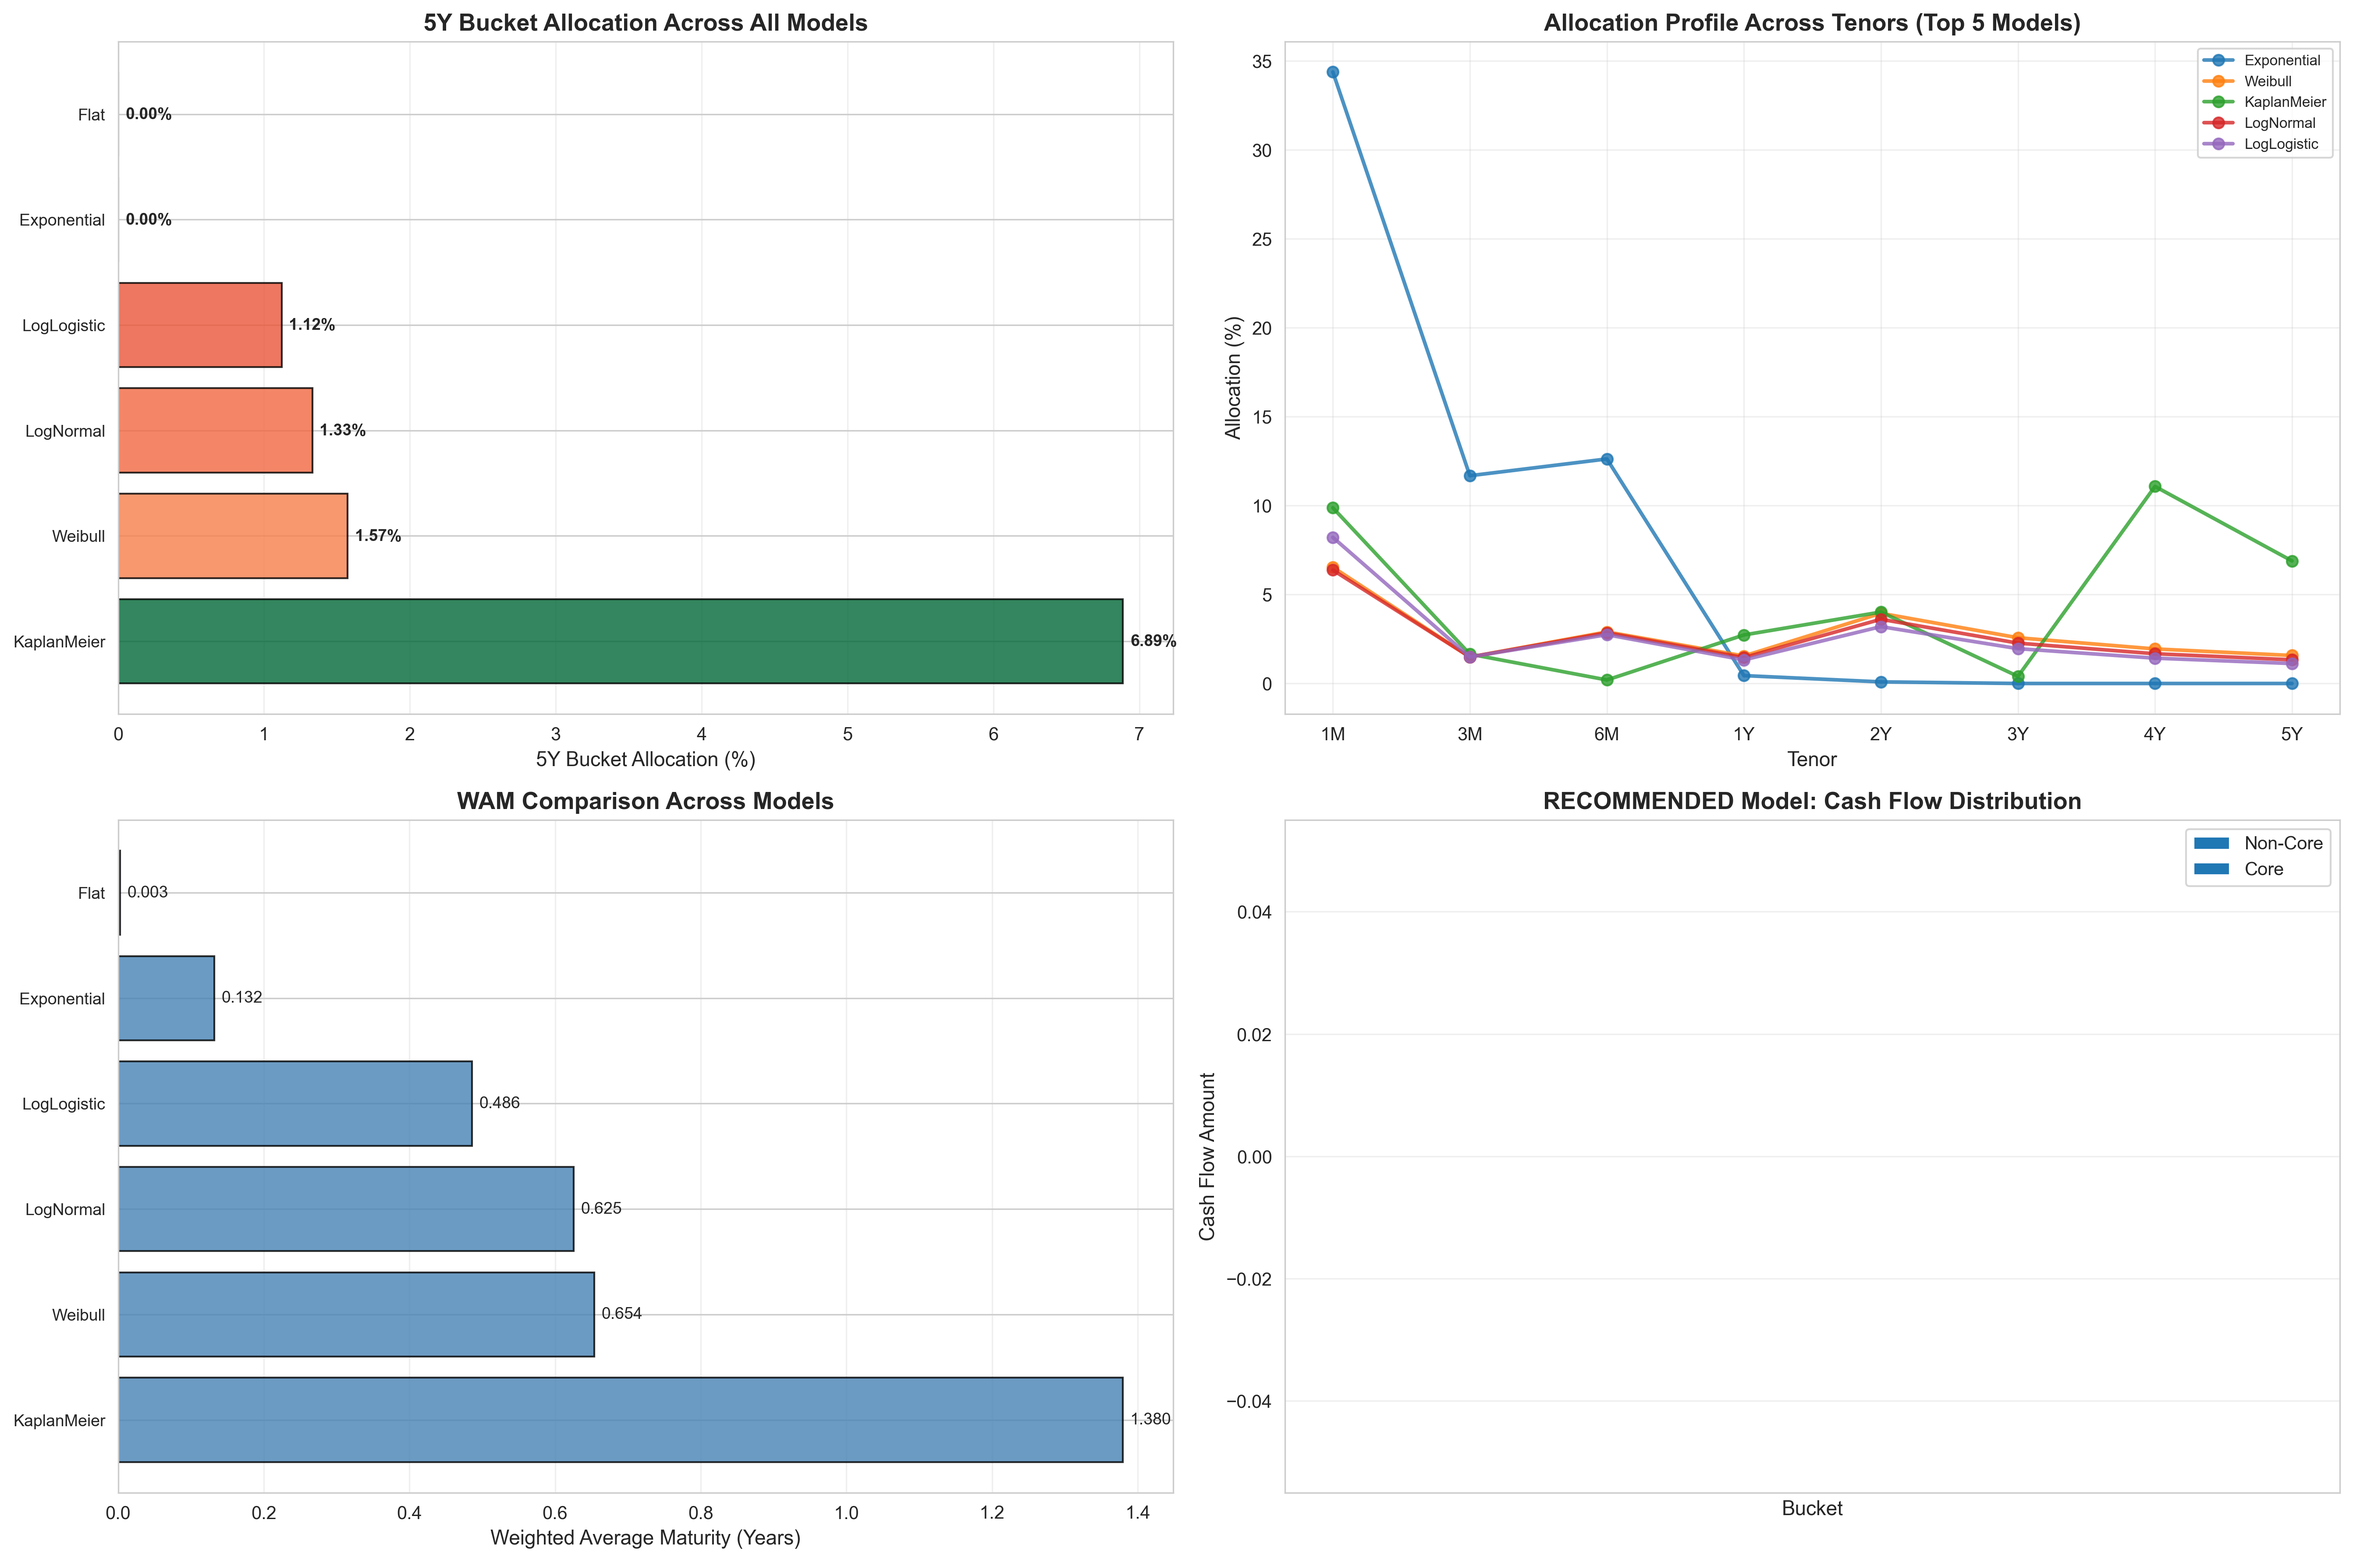
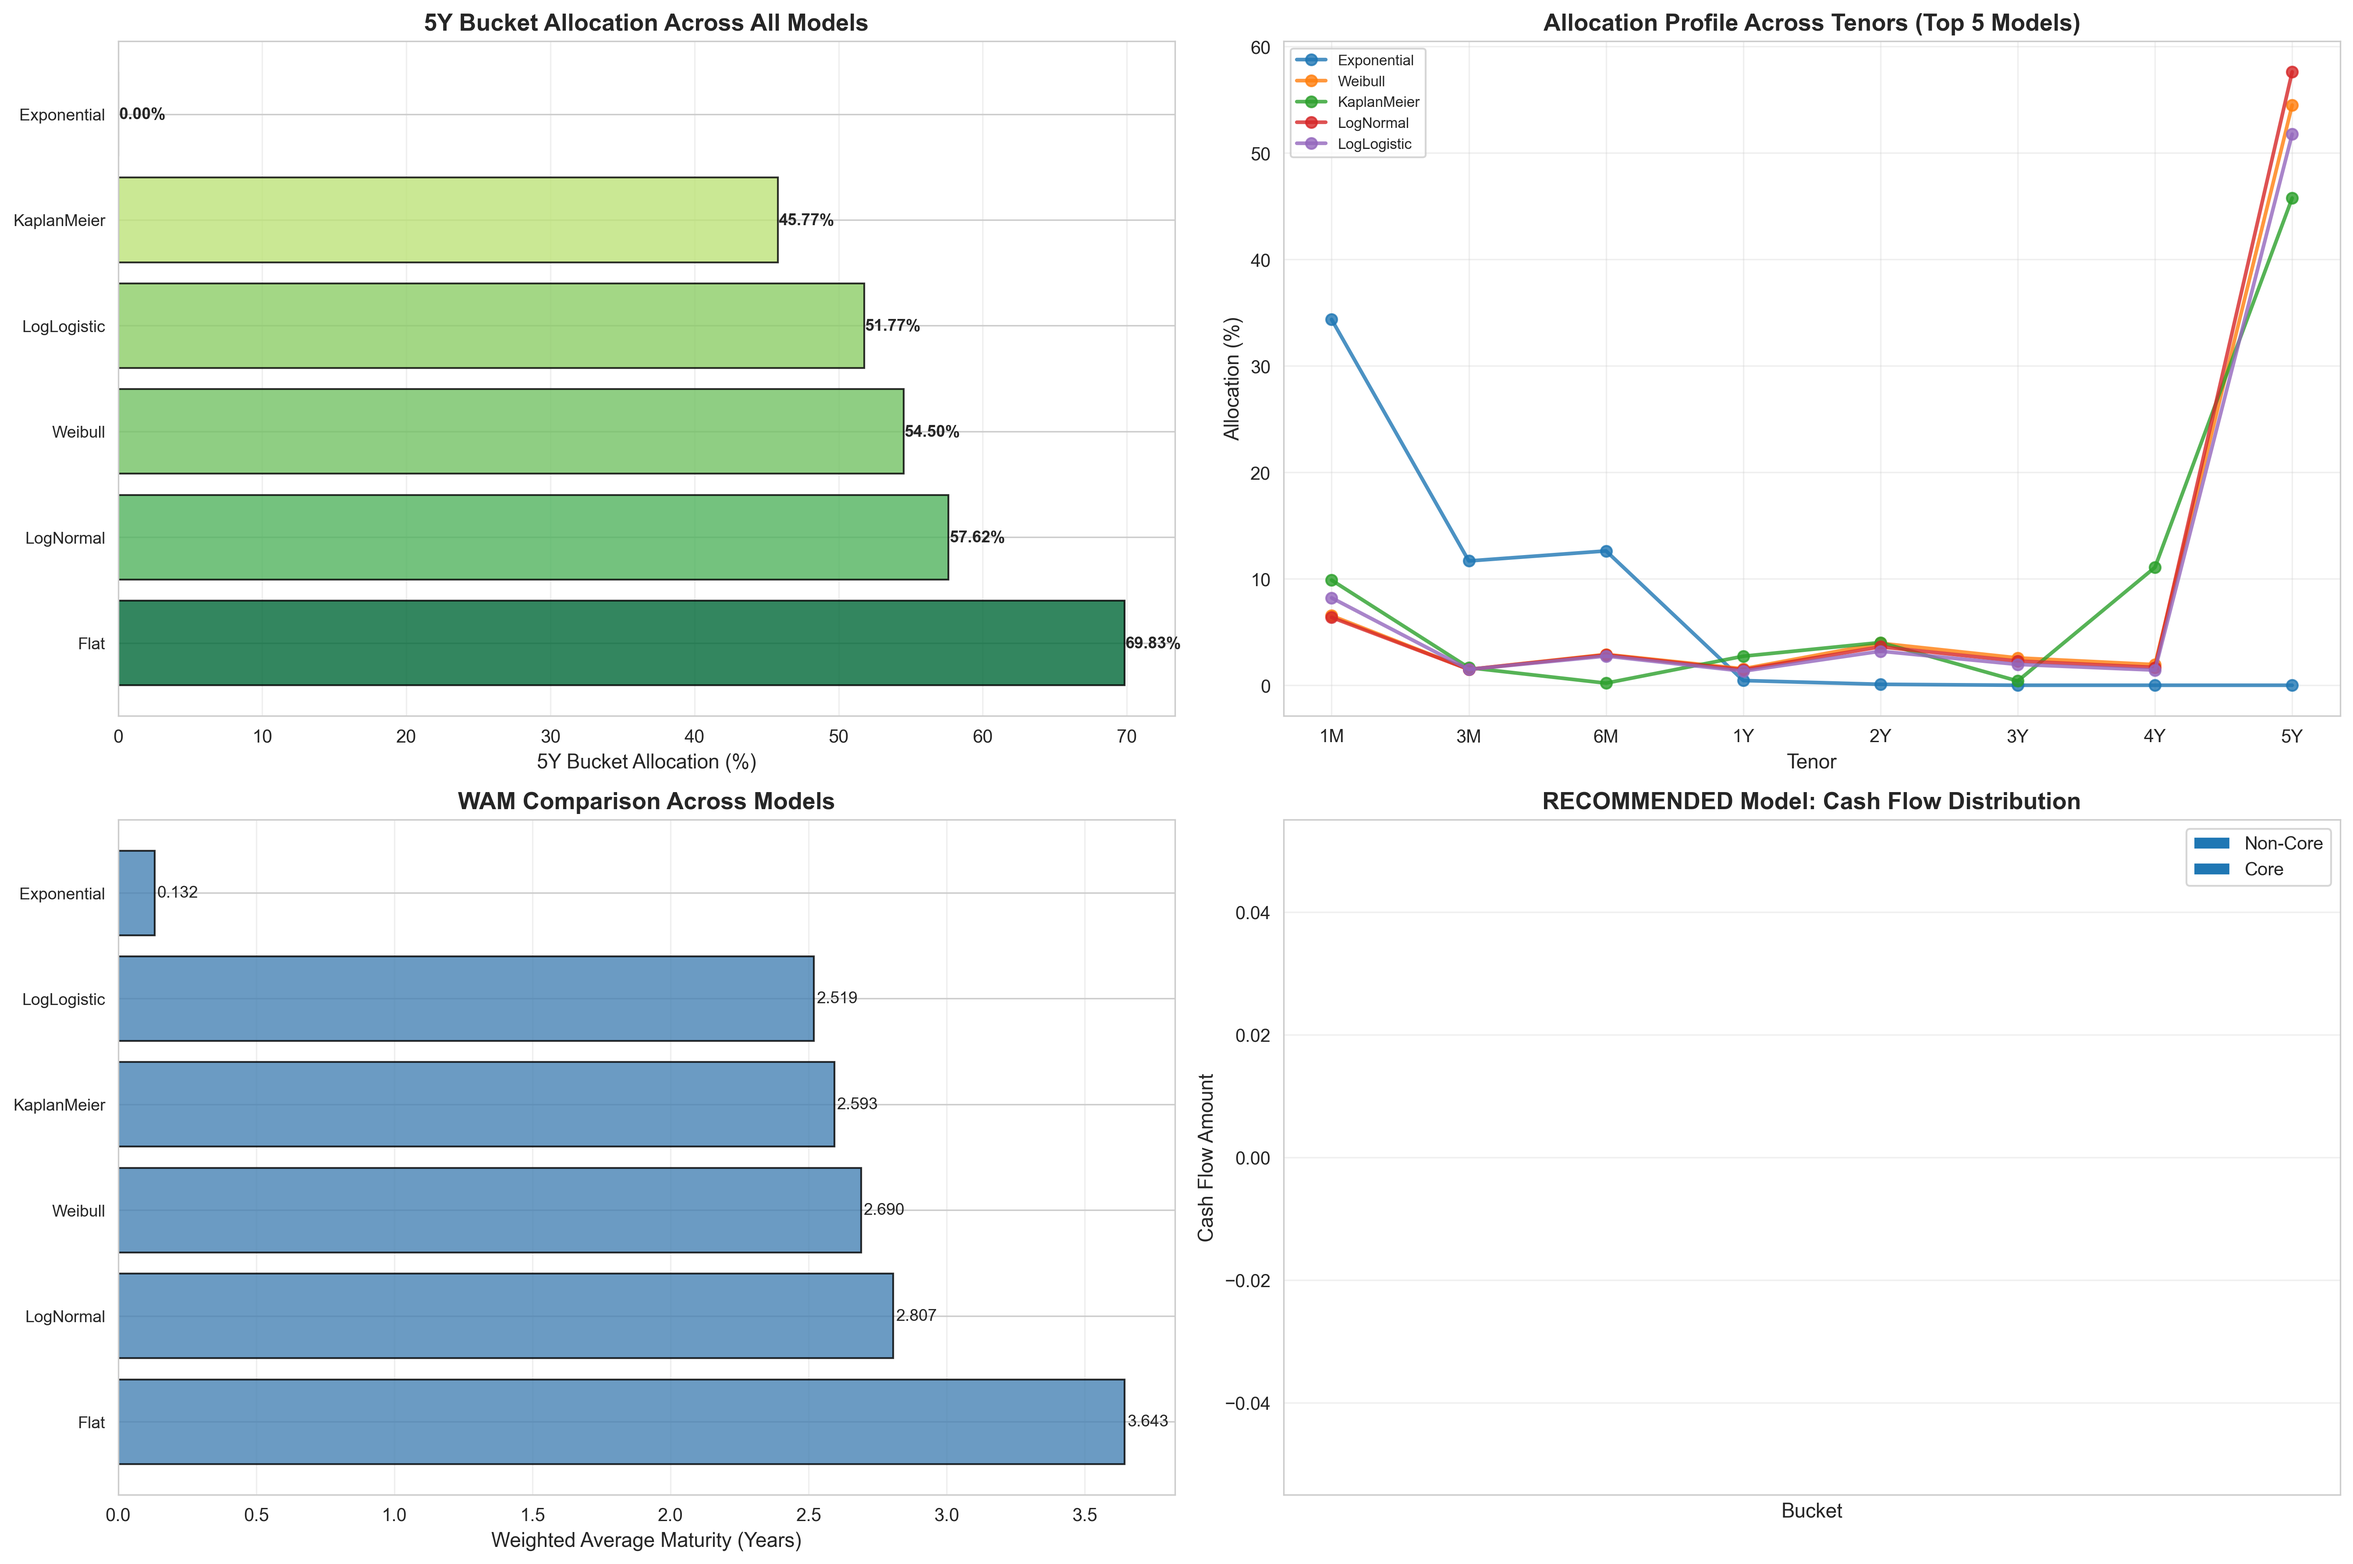
update to phase 2

diff --git a/phase_2_cashflow_slotting.py b/phase_2_cashflow_slotting.py
@@ -178,8 +178,14 @@ for idx, row in buckets_df.iterrows():
         # O/N bucket gets all non-core + marginal core decay from day 0 to 1
         core_cf = core_amount * (s_start - s_end)
         total_cf = non_core_amount + core_cf
+    elif bucket_name == '5Y':
+        # 5Y bucket gets marginal decay (4Y-5Y) + residual beyond 5Y (Basel cap)
+        marginal_decay = core_amount * (s_start - s_end)
+        residual_beyond_5y = core_amount * s_end  # S(1825) remainder - everything surviving beyond 5Y
+        core_cf = marginal_decay + residual_beyond_5y
+        total_cf = core_cf
     else:
-        # Other buckets get marginal core decay
+        # Other buckets get marginal core decay only
         core_cf = core_amount * (s_start - s_end)
         total_cf = core_cf
 
@@ -204,6 +210,8 @@ repricing_profile['CF_Percent'] = (repricing_profile['Total_CF'] / current_balan
 
 # Verify total matches current balance
 total_cf = repricing_profile['Total_CF'].sum()
+total_core_cf = repricing_profile['Core_CF'].sum()
+
 print("\n" + "="*80)
 print("CASH FLOW SLOTTING RESULTS")
 print("="*80)
@@ -211,6 +219,25 @@ print(f"Total Cash Flows:        {total_cf:,.2f}")
 print(f"Current Balance:         {current_balance:,.2f}")
 print(f"Difference:              {abs(total_cf - current_balance):,.6f}")
 print(f"Match: {'✓ PASS' if abs(total_cf - current_balance) < 0.01 else '✗ FAIL'}")
+
+print(f"\nCore Allocation Check:")
+print(f"Total Core CF:           {total_core_cf:,.2f}")
+print(f"Expected Core:           {core_amount:,.2f}")
+print(f"Difference:              {abs(total_core_cf - core_amount):,.6f}")
+print(f"Match: {'✓ PASS' if abs(total_core_cf - core_amount) < 0.01 else '✗ FAIL'}")
+
+# Show 5Y bucket breakdown
+five_y_row = repricing_profile[repricing_profile['Bucket'] == '5Y'].iloc[0]
+s_5y = five_y_row['S(t_end)']
+marginal_5y = core_amount * five_y_row['Marginal_Decay']
+residual_5y = core_amount * s_5y
+
+print(f"\n5Y Bucket Breakdown (Basel 5Y Cap):")
+print(f"  Marginal decay (4Y-5Y):   {marginal_5y:,.2f}  ({marginal_5y/core_amount*100:.2f}% of core)")
+print(f"  Residual (beyond 5Y):     {residual_5y:,.2f}  ({residual_5y/core_amount*100:.2f}% of core)")
+print(f"  Total 5Y allocation:      {five_y_row['Core_CF']:,.2f}  ({five_y_row['CF_Percent']:.2f}% of balance)")
+print(f"\n  → S(5Y) = {s_5y*100:.2f}% of deposits survive beyond 5 years")
+print(f"  → Per Basel, these are capped at 5Y maturity")
 
 # %% [markdown]
 # ### 4.2 Repricing Profile Table

diff --git a/phase_2_compare_all_models.py b/phase_2_compare_all_models.py
@@ -84,6 +84,12 @@ def calculate_cashflow_allocation(survival_curve, core_amt, non_core_amt, bucket
         if bucket_name == 'O/N':
             core_cf = core_amt * (s_start - s_end)
             total_cf = non_core_amt + core_cf
+        elif bucket_name == '5Y':
+            # 5Y bucket gets marginal decay + residual beyond 5Y (Basel cap)
+            marginal_decay = core_amt * (s_start - s_end)
+            residual_beyond_5y = core_amt * s_end  # S(1825) remainder
+            core_cf = marginal_decay + residual_beyond_5y
+            total_cf = core_cf
         else:
             core_cf = core_amt * (s_start - s_end)
             total_cf = core_cf
